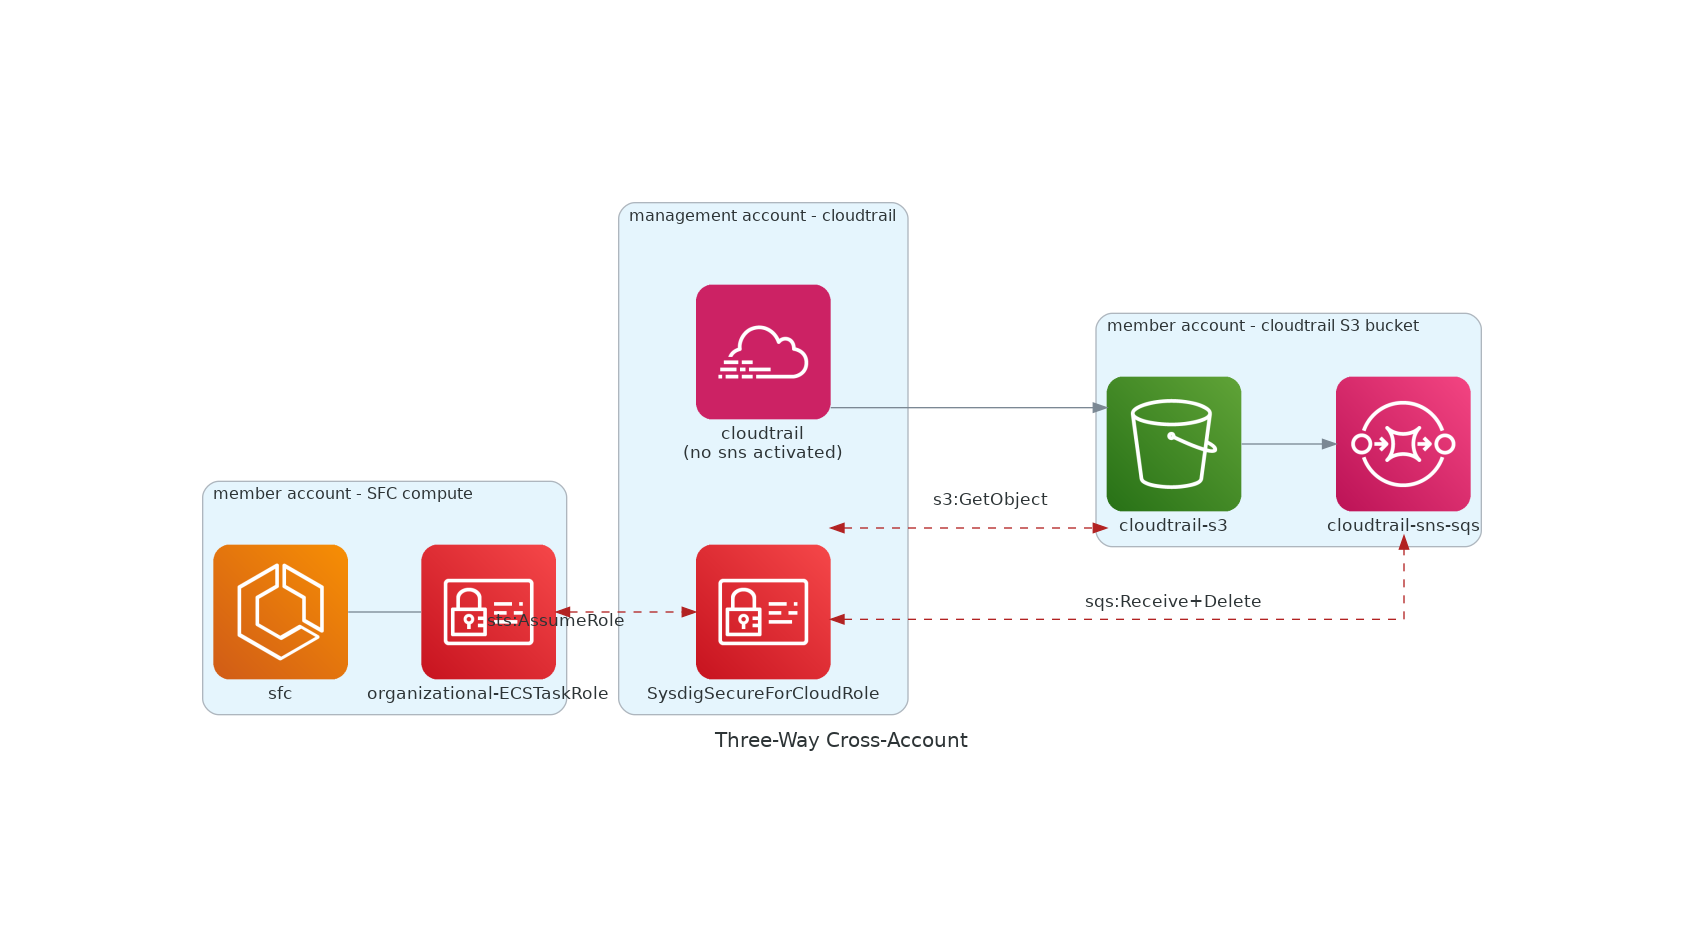
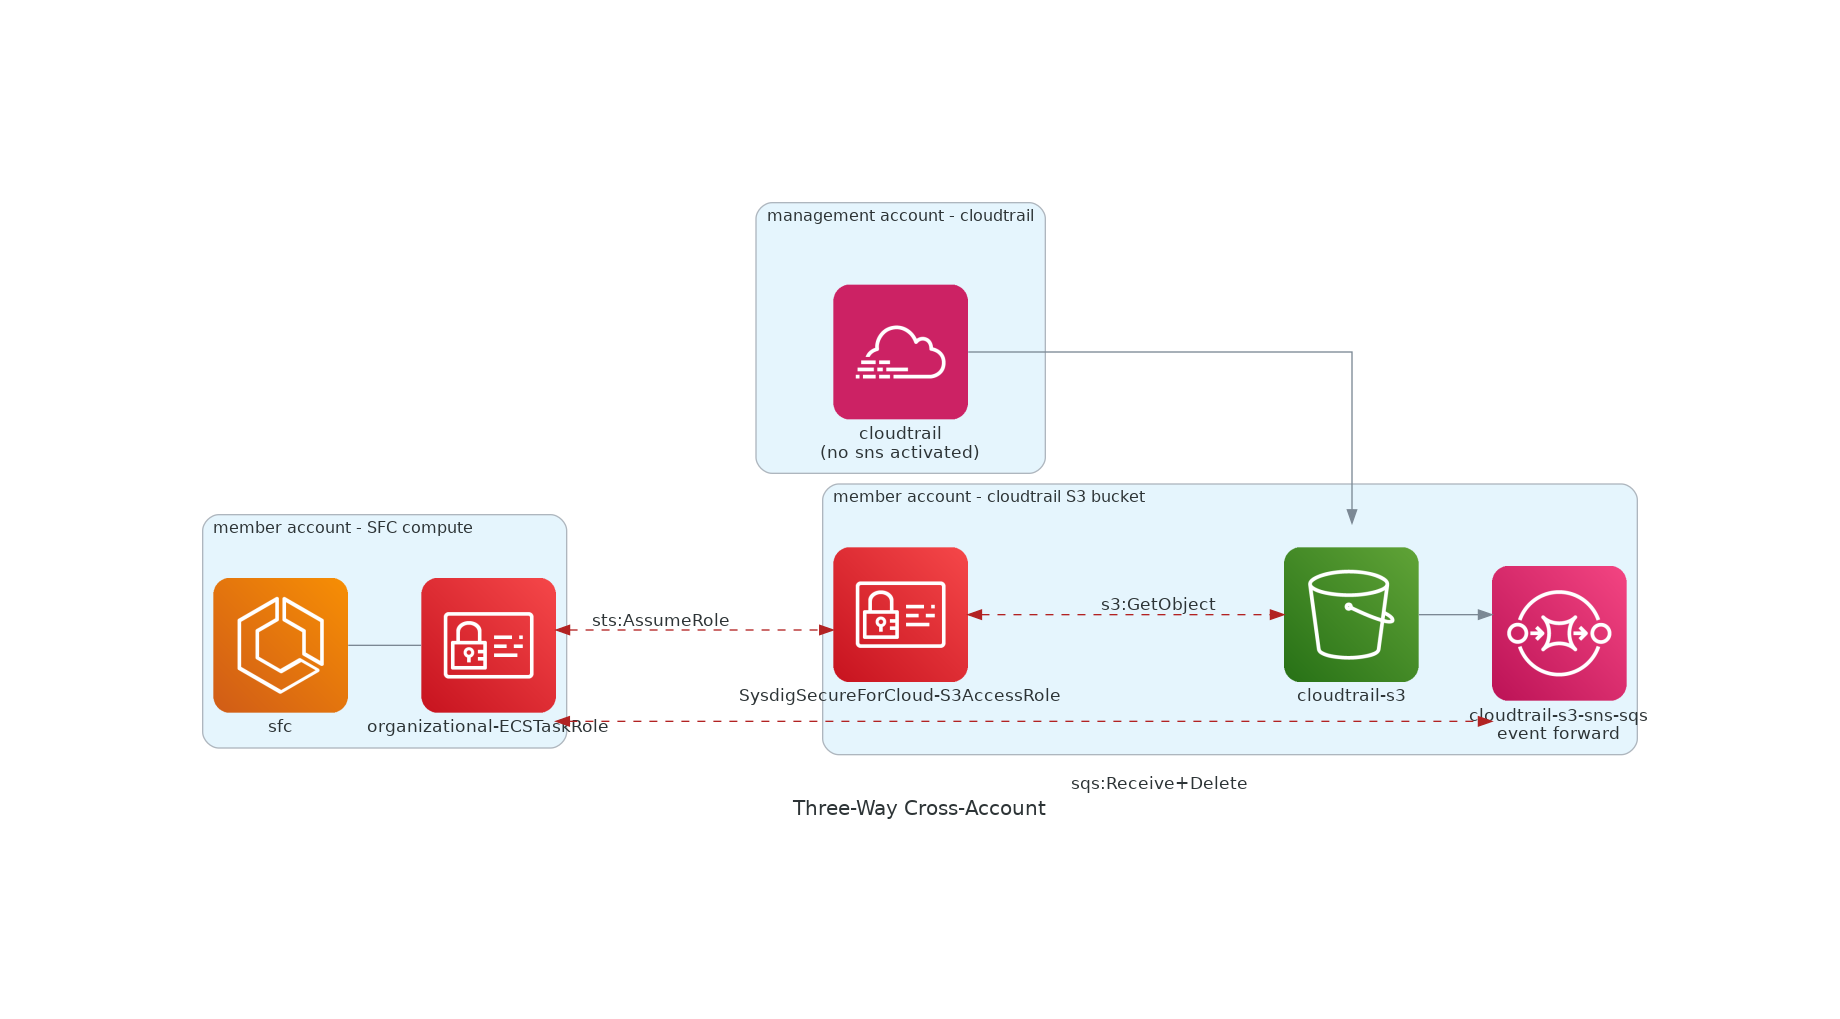
chore: update use-case

Changed region(s): [[0.0926, 0.183, 0.8955, 0.8233]]

diff --git a/use-cases/org-three-way-permissions.py b/use-cases/org-three-way-permissions.py
@@ -12,25 +12,23 @@ color_event="firebrick"
 
 with Diagram("Three-Way Cross-Account", filename="org-three-way-permissions", show=True):
 
+    with Cluster("management account - cloudtrail"):
+        cloudtrail = Cloudtrail("cloudtrail\n(no sns activated)")
+        #org_role = IAM("sfc-SysdigSecureForCloudRole")
+
     with Cluster("member account - cloudtrail S3 bucket"):
         cloudtrail_s3 = S3("cloudtrail-s3")
-        cloudtrail_sns_sqs = SQS("cloudtrail-sns-sqs")
-        cloudtrail_s3 >> cloudtrail_sns_sqs
-
+        cloudtrail_sns_sqs = SQS("cloudtrail-s3-sns-sqs\nevent forward")
+        org_role = IAM("SysdigSecureForCloud-S3AccessRole")
 
     with Cluster("member account - SFC compute"):
-
         ecs = ECS("sfc")
         ecs_role = IAM("organizational-ECSTaskRole")
         ecs - ecs_role
 
+    cloudtrail >> cloudtrail_s3
+    cloudtrail_s3 >> cloudtrail_sns_sqs
 
-    with Cluster("management account - cloudtrail"):
-        cloudtrail = Cloudtrail("cloudtrail\n(no sns activated)")
-        cloudtrail >> cloudtrail_s3
-
-        org_role = IAM("sfc-SysdigSecureForCloudRole")
-
-    ecs_role >> Edge(color=color_event, style="dashed", xlabel="sts:AssumeRole") << org_role
-    org_role >> Edge(color=color_event, style="dashed", label="sqs:Receive+Delete")  << cloudtrail_sns_sqs
+    ecs_role >> Edge(color=color_event, style="dashed", label="sts:AssumeRole") << org_role
+    ecs_role >> Edge(color=color_event, style="dashed", label="sqs:Receive+Delete")  << cloudtrail_sns_sqs
     org_role >> Edge(color=color_event, style="dashed", label="s3:GetObject") << cloudtrail_s3

diff --git a/use-cases/org-s3-ecs-cross-account-setup.md b/use-cases/org-s3-ecs-cross-account-setup.md
@@ -34,6 +34,11 @@ Please contact us if something requires to be adjusted.
 ### Step by Step Example Guide
 
 <!--
+
+all in same region
+management account - cloudtrail
+log archive account - s3, sns, sqs
+
 0.1 Provision an S3 bucket in the selected region and allow cloudtrail access
 {
     "Version": "2012-10-17",
@@ -45,97 +50,126 @@ Please contact us if something requires to be adjusted.
                 "Service": "cloudtrail.amazonaws.com"
             },
             "Action": "s3:PutObject",
-            "Resource": "arn:aws:s3:::irutest-pre-existing-cloudtrail-s3/*"
+            "Resource": "S3_ARN/*"
         }
     ]
 }
 
-0.2. Provision the s3 bucket sqs event-forward into a queue on same region/account
+0.2. Provision the s3 bucket sns event forward. Need to add permissions to SNS
+{
+      "Sid": "AllowS3ToPublishSNS",
+      "Effect": "Allow",
+      "Principal": {
+        "Service": "s3.amazonaws.com"
+      },
+      "Action": [
+        "SNS:Publish"
+      ],
+      "Resource": "S3_ARN"
+    }
 -->
 
 
-1. Configure `AWS_PROFILE` with an organizational Administration credentials
+#### 1. Configure `AWS_PROFILE` with an organizational Administration credentials
 
-2. Choose an Organizational **Member account for Sysdig Workload** to be deployed.
+#### 2. Choose an Organizational **Member account for Sysdig Workload** to be deployed.
     - This accountID will be provided in the `SYSDIG_SECURE_FOR_CLOUD_MEMBER_ACCOUNT_ID` parameter
 
-3. Use `organizational` example snippet with following parameters
-    - General
-        - `AWS_REGION` Same region is to be used for both organizational managed account and Sysdig workload member account resources.<br/>
-            - **Region MUST match both S3 bucket, SNS and SQS**.
-        - `SYSDIG_SECURE_FOR_CLOUD_MEMBER_ACCOUNT_ID` where Sysdig Workload is to be deployed under the pre-existing ECS
+#### 3. Permissions - S3AccessRole
+  - Create a `SysdigSecureForCloud-S3AccessRole` in the same account where the S3 bucket exists.
+  - We need to input in the principal a role that exists, but becaus we've not launched the terraform yet, we don't have this value.
+    <br/>Will add a generic value, and modify afterwards.
+    ```text
+    {
+     "Sid": "AllowSysdigToRead",
+     "Effect": "Allow",
+     "Principal": {
+         "Service": "ecs-tasks.amazonaws.com"
+     },
+     "Action": "s3:GetObject",
+     "Resource": [
+         "<CLOUDTRAIL_S3_ARN>",
+         "<CLOUDTRAIL_S3_ARN>/*"
+     ]
+    }
+    ```
+  - Fetch the created role arn as CLOUDTRAIL_S3_ROLE_ARN
 
-    - Existing Organizational Cloudtrail Setup vía Cloudtrail-S3 SQS event-forwarder
-        - `CLOUDTRAIL_S3_SNS_SQS_URL`
+#### 4. Launch Terraform
 
-    - Existing ECS Cluster Workload  Setup
-        - `ECS_CLUSTER_NAME` ex.: "sfc"
+   - Use provided [Terraform Snippet](#terraform-manifest-snippet)
+   - We'll use the `organizational` example
+   - General
+       - `AWS_REGION` Same region is to be used for both organizational managed account and Sysdig workload member account resources.<br/>
+           - Region MUST match both S3 bucket, SNS and SQS
+       - `SYSDIG_SECURE_FOR_CLOUD_MEMBER_ACCOUNT_ID` where Sysdig Workload is to be deployed under the pre-existing ECS<br/><br/>
+    
+   - Existing Organizational Cloudtrail Setup vía Cloudtrail-S3 vía SNS-SQS event-forwarder.
+     <br/>This use-cases is specific for S3 buckets that are isolated in an account that's not the default management account, neither sysdig compute workload depoyment account.
+     <br/>Due to S3 access limitations, cross-account access requires a role in the same S3 account, to be assumed by the caller.
 
-    - Existing Networking Setup
-        - `ECS_VPC_ID` ex.: "vpc-0e91bfef6693f296b"
-        - `ECS_VPC_SUBNET_PRIVATE_ID_X` Two subnets for the VPC. ex.: "subnet-0c7d803ecdc88437b"
+      ```terraform
+       existing_cloudtrail_config={
+          cloudtrail_s3_sns_sqs_arn="<CLOUDTRAIL_S3_SNS_SQS_ARN>"    # for permission setup on ECSTaskRole to be able to access SQS
+          cloudtrail_s3_sns_sqs_url="<CLOUDTRAIL_S3_SNS_SQS_URL>"    # for sysdig cloud-connector compute to fetch events
+          cloudtrail_s3_role_arn="<CLOUDTRAIL_S3_ROLE_ARN>"          # for ECSTask assumeRole and access S3
+      }
+     ```
 
-4. Permissions - SQS
+   - Existing ECS Cluster Workload  Setup
+       - `ECS_CLUSTER_NAME` ex.: "sfc"
 
-    - Before running Terraform, we need to give permissions to the role of the `member`-aliased terraform aws provider, to be able to fetch events from the SQS queue
-      and subscribe it to the provided SNS. Otherwise, Terraform will fail with an error such as
-      > AuthorizationError: User: ***  is not authorized to perform: SNS:Subscribe on resource <SNS_ARN>:  because no resource-based policy allows the SNS:Subscribe action
-    - We'll need to add following permissions to the SNS queue
+   - Existing Networking Setup
+       - `ECS_VPC_ID` ex.: "vpc-0e91bfef6693f296b"
+       - `ECS_VPC_SUBNET_PRIVATE_ID_X` Two subnets for the VPC. ex.: "subnet-0c7d803ecdc88437b"
+
+   - With this parameters, you should have a Terraform manifest ready to apply.
+   <br/>This should run without errors, but still we've got some more permissions to adjust.
+
+#### 5. Permissions
+
+   We need provided pre-existing cloudtrail S3 and SQS to allow Sysdig Secure to access both resources. That will be done through the `sfc-organizational-ECSTaskRole"` (default name value) role to provide following permissions.
+   ![organizational three-way-account permission setup](./org-three-way-permissions.png)
+
+##### 5.1 Fetch `SYSDIG_ECS_TASK_ROLE_ARN` ARN
+    
+Get this ARN at hand, because it's what you'll use to configure your pre-existing CLOUDTRAIL_S3 and CLOUDTRAIL_S3_SNS_SQS permissions to allow SysdigWorkload to operate with it.
+
+```terraform
+$ terraform state list | grep aws_iam_role.connector_ecs_task
+<RESULTING_RESOURCE>
+        
+$ terraform state show <RESULTING_RESOURCE> | grep "arn"     
+arn = "arn:aws:iam::****:role/sfc-organizational-ECSTaskRole"
+```
+
+##### 5.2 Cloudtrail-S3
+
+- From the previously created `CLOUDTRAIL_S3_ROLE_ARN`, we will change the following in the trusted-identity setup.
+    ```
+    "Principal": {
+    <    "Service": "ecs-tasks.amazonaws.com"
+    >    "AWS": "<SYSDIG_ECS_TASK_ROLE_ARN>"
+    }
+    ```
+
+##### 5.3 Cloudtrail-S3-SNS-SQS
+
+We'll need to add following permissions to the SQS queue
    ```text
     {
       "Sid": "AllowSQSSubscribe",
       "Effect": "Allow",
       "Principal": {
-        "AWS": "<TERRAFORM_AWS_PROVIDER_MEMBER_ACCOUNT_ROLE_ARN>"
+        "AWS": "<SYSDIG_ECS_TASK_ROLE_ARN>"
       },
-      "Action": "SQS:",
+      "Action": [              
+        "sqs:ReceiveMessage",
+        "sqs:DeleteMessage"
+      ],
       "Resource": "<CLOUDTRAIL_S3_SNS_SQS_ARN>"
    }
-    ```
-- Check [`./modules/infrastructure/cloudtrail/sns_permissions.tf`](https://github.com/sysdiglabs/terraform-aws-secure-for-cloud/blob/master/modules/infrastructure/cloudtrail/sns_permissions.tf#L22) for more insight
-
-
-4. Permissions - S3
-    - Terraform should have successfully deployed everything, but still, ECS task will fail due to missing permissions on S3 access.
-    - We cannot prepare this beforehand, as S3 will throw following error if the referenced Role does not exist yet.
-      > Invalid principal in policy
-    - For cross-account S3 access, we will provision permissions on both management-account role and s3 bucket
-    - For Terraform provisioned role in the management account, `<ARN_SYSDIG_S3_ACCESS_ROLE>`,<br/> in form of `arn:aws:iam::<SYSDIG_SECURE_FOR_CLOUD_MEMBER_ACCOUNT_ID>:role/sysdig-sfc-SysdigSecureForCloudRole`, <br/>
-    ```text
-     {
-        "Sid": "AllowSysdigReadS3",
-        "Effect": "Allow",
-        "Action": [
-            "s3:GetObject"
-        ],
-        "Resource": "<ARN_CLOUDTRAIL_S3>/*"
-    }
-    ```
-    - For the S3 bucket
-    ```text
-    {
-        "Sid": "AllowSysdigToRead",
-        "Effect": "Allow",
-        "Principal": {
-            "AWS": "<ARN_SYSDIG_S3_ACCESS_ROLE>" # role created by terraorm , in form of "arn:aws:iam::<SYSDIG_SECURE_FOR_CLOUD_MEMBER_ACCOUNT_ID>:role/sysdig-sfc-SysdigSecureForCloudRole"
-        },
-        "Action": "s3:GetObject",
-        "Resource": [
-            "<CLOUDTRAIL_S3_ARN>",
-            "<CLOUDTRAIL_S3_ARN>/*"
-        ]
-    }
-    ```
-    - We shouldn't need to restart ECS Task for these roles to be effective and logs should show no errors at this point.
-
-
-
-### Permission Setup Guidance
-
-We need provided cloudtrail S3 and SQS to allow management account `sfc-SysdigSecureForCloudRole` (default value) role to provide following permissions.
-
-
-![organizational three-way-account permission setup](./org-three-way-permissions.png)
+```
 
 ### Terraform Manifest Snippet
 
@@ -180,9 +214,13 @@ module "sysdig-sfc" {
   name   = "sysdig-sfc"
 
   sysdig_secure_for_cloud_member_account_id="<SYSDIG_SECURE_FOR_CLOUD_MEMBER_ACCOUNT_ID>"
-
-  cloudtrail_s3_sns_sqs_url  = "<CLOUDTRAIL_S3_SNS_SQS_ARN>"
-
+  
+  existing_cloudtrail_config={
+    cloudtrail_s3_sns_sqs_arn="<CLOUDTRAIL_S3_SNS_SQS_ARN>"
+    cloudtrail_s3_sns_sqs_url="<CLOUDTRAIL_S3_SNS_SQS_URL>"
+    cloudtrail_s3_role_arn="<CLOUDTRAIL_S3_ROLE_ARN>"
+  }
+  
   ecs_cluster_name              = "<ECS_CLUSTER_NAME>"
   ecs_vpc_id                    = "<ECS_VPC_ID>"
   ecs_vpc_subnets_private_ids   = ["<ECS_VPC_SUBNET_PRIVATE_ID_1>","<ECS_VPC_SUBNET_PRIVATE_ID_2>"]}
